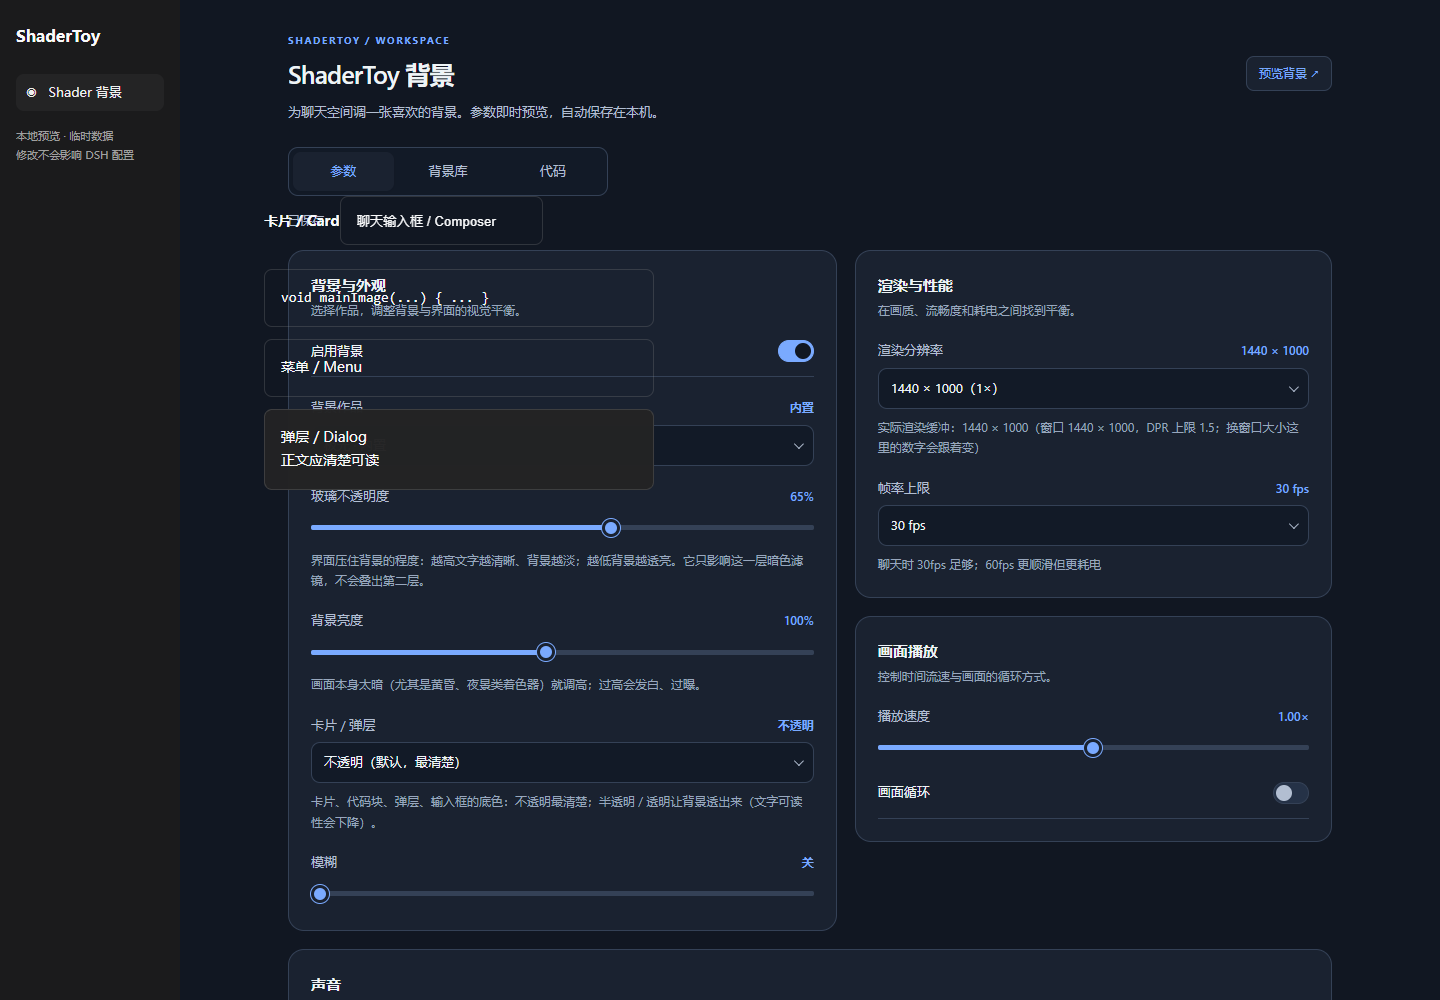
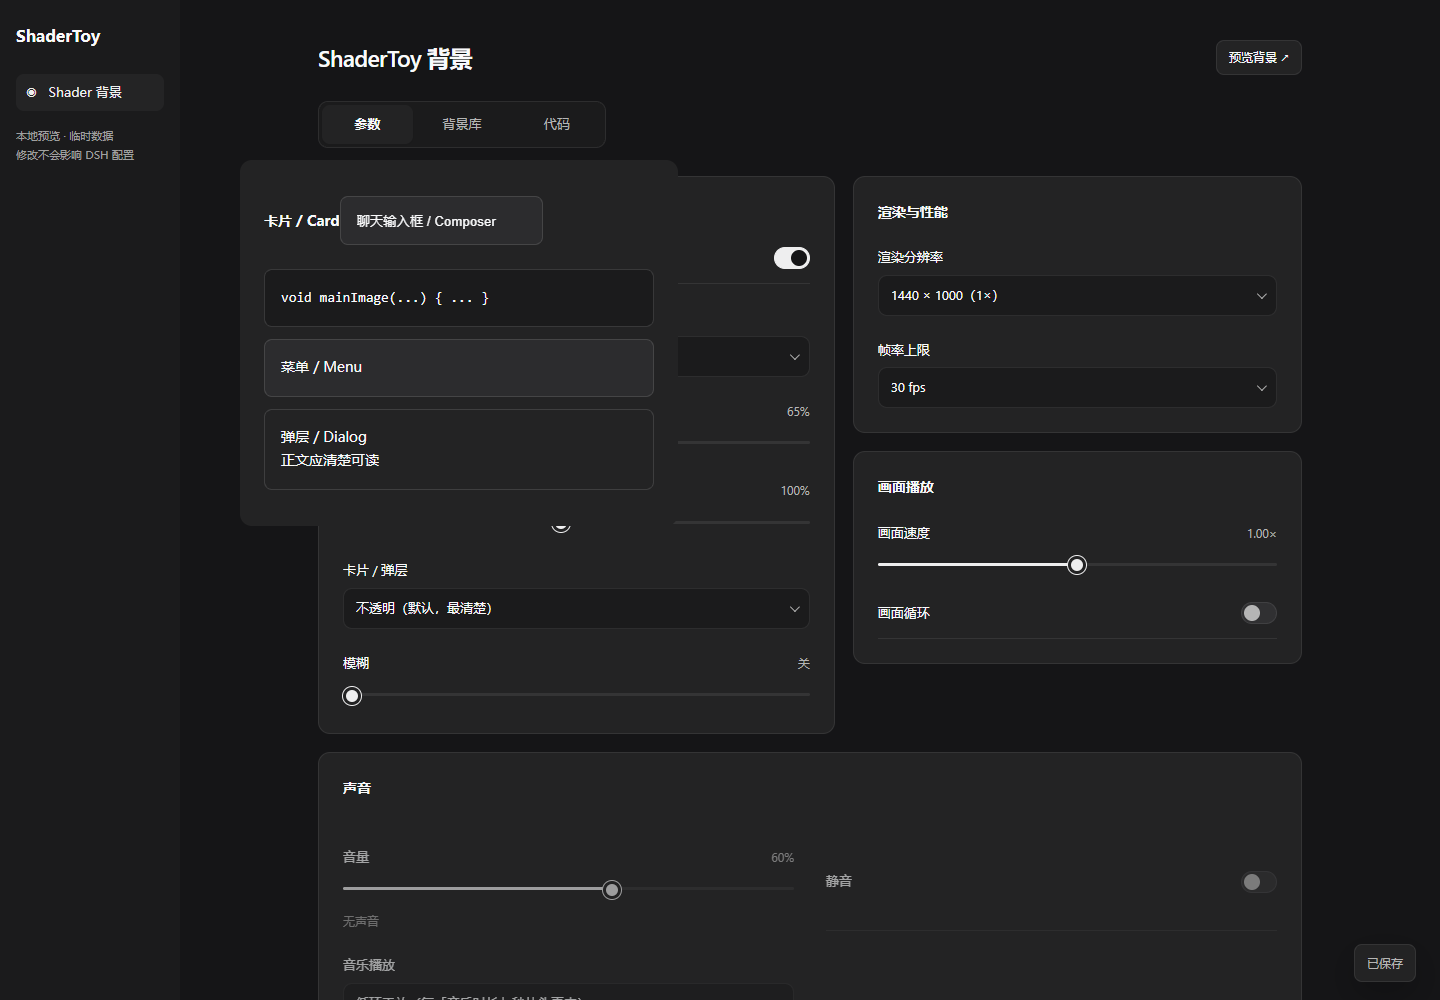
docs(audit): record native UI validation, surface policy and desktop installation

diff --git a/docs/full-audit-2026-10-27.md b/docs/full-audit-2026-10-27.md
@@ -1,0 +1,73 @@
+# 原生配色、透明表面与插件全面审查
+
+日期：2026-10-27。实验分支：`codex/experiment-native-ui`。界面分支 `codex/native-ui` 与修复分支 `codex/audit-hardening` 分别开发，合入本实验分支。原 `main` 保持 `1aec852`，未合并实验改动，未发布 npm。
+
+## 设置界面
+
+读取本机 DSH 安装包的主题实现后，采用其主要中性色：浅色 `#fff`，深色页面 `#151517`、卡片 `#232324`、字段 `#1b1b1c`。按钮、开关、滑块和焦点均以黑白灰表达状态，语义错误仍用红色。
+
+删除页头英文小标、介绍文案、分组说明、参数下方长段说明、重复选择数值。保留必要的名称、单位、代码状态和错误信息。自动保存提示改为不影响排版的状态浮层，避免控件在操作中上下移动。Image / Sound 的专注编辑、行号、字号、换行和高度记忆继续保留。
+
+## 透明度策略
+
+| 表面 | 半透明 / 透明档的策略 |
+|---|---|
+| 主界面外壳 | 背景与遮罩合成一次，避免多层遮罩把画面压黑 |
+| 普通卡片 | 基础不透明度分别为 72% / 38%；低遮罩时根据最亮/最暗背景提高安全下限 |
+| 聊天输入框 | 至少 85% 不透明 |
+| Markdown 代码块 | 至少 84% 不透明 |
+| 菜单、选择器、分组菜单头 | 97% 不透明，保留清楚的文字与边界 |
+| 设置、确认等关键对话框 | 100% 不透明；实机发现 98% 仍有背后文字重影后进一步调整 |
+| 插件自身设置页、代码工作区 | 固定可读表面；用“预览背景”单独查看背景效果 |
+
+只覆盖语义背景 token，不再覆盖静态中性色板。静态色板也会被原生文字、图标使用，全局改写它可能把前景文字一起变透明。原生遮罩与语义颜色保持各自职责。
+
+截图：[深色设置](verify/ui-refresh/settings-dark.png)、[浅色设置](verify/ui-refresh/settings-light.png)、[代码页](verify/ui-refresh/editor-dark.png)。透明度回归截图见 [surface-audit](verify/surface-audit/)；这些截图由真实插件配合最小 DSH 服务适配器和语义表面夹具生成，桌面端另做人工验收。
+
+## 本轮问题与处理
+
+| 级别 | 问题 | 处理 |
+|---|---|---|
+| P1 | 初次读取配置失败后以空库继续保存，可能覆盖用户背景库 | 读取失败禁止写入，提供重新加载；损坏文件原样保留 |
+| P1 | 两个设置窗口读取同一旧快照，后保存者覆盖先保存者 | 状态 GET/PUT 增加 ETag / If-Match，旧修订返回 409，不静默覆盖 |
+| P1 | 全局改写静态中性色，可能影响前景文字/图标 | 删除静态色板覆盖，仅修改语义表面 |
+| P2 | 背景关闭后启动/调参仍可能重新透明化原生界面 | 关闭状态统一清除样式与 token；后续调参也不重加 |
+| P2 | 深浅模式切换时播放器保留上一主题遮罩 | 主题变化同步发送当前主题的实际 tint 参数；验证 GPU uniform |
+| P2 | 透明档的菜单底色过淡、浅色对话框透出背后代码 | 菜单提高到 97%；关键对话框完全不透明 |
+| P2 | 未保存代码只在内存中，刷新会丢失 | 当前浏览会话用 sessionStorage 恢复草稿，显式放弃时清除 |
+| P2 | 保存代码期间切换作品，迟到结果可能作用于错误作品 | 保存结果检查当前作品与已加载编辑对象，避免错误应用 |
+| P2 | 自有 JSON 的 Sound 字段、Image/Sound 混合 GLSL 导入时丢音频 | 两种格式均保留声音；错误 Sound 不再静默丢弃 |
+| P2 | 只比较原始代码长度，JSON 转义后请求可能超过 Host 上限 | 按 UTF-8 代码字节和完整序列化请求双重预检，保留原输入 |
+| P2 | 数值、重复作品 ID 缺乏 Host 验证 | 按默认参数范围校验，拒绝重复 ID；损坏结构不作为有效状态加载 |
+| P2 | 图形上下文丢失后背景不能恢复 | 处理 context lost/restored；恢复后重载播放器并重新初始化当前作品 |
+| P2 | 固定假设 GPU 最大分辨率 | 同时读取设备纹理和 viewport 限制，最高仍限制为 8192 |
+| P2 | 画面速度改变只移动音频块起点，可能重复/跳过声音；速度零导致重复块 | 速度明确只控制画面，音频使用连续独立时间轴 |
+| P2 | 全量参数消息被误判为音乐模式变化，可能再次截断尾段 | 只在模式/时长实际变化时重调度 |
+| P2 | 切换带音作品时先启动声音，再应用音量/静音 | 初始化先应用参数，避免短暂使用旧音量 |
+| P2 | 本地预设符号链接可能绕过目录边界 | 解析真实路径后二次检查；目录 junction 越界有回归测试 |
+| P3 | 插件卸载发生在异步启动期间，晚到任务可能重建背景 | 增加 disposed 检查，阻止已释放插件继续启动 |
+| P3 | 声音编译失败提示不足、重试按钮没有重试代码保存 | 声音错误在设置和代码页展示；重试指向当前实际保存操作 |
+| P3 | 每帧创建未使用的通道数组 | 复用零值 uniform 数组 |
+
+上一轮修复的初始化次数耗尽、请求竞争、原子保存临时文件竞争、Common pass 识别、页签切换草稿丢失、编译失败黑屏、音频尾段提前停止均继续保留，并运行原回归测试。
+
+## 验证与实装
+
+- `npm test`：109 项包检查，以及 Host 状态、迁移、格式、并发、ETag、损坏文件、数值范围和真实路径边界验证。
+- `npm run test:renderer`：Edge / WebGL2、ES1 回退、错误行号、真实鼠标拖动、代码保存与页面滚动。
+- `npm run test:audio`：WebAudio 非静音样本、增益、画面速度零时音频仍连续、只播一次和循环重放。
+- `npm run test:panel`：真实 Client + 面板 + 播放器；重复切换、迟到响应、串行保存、失败重试、草稿、Common 与编译失败后保留画面。
+- `npm run test:ui`：中性色约束、冗余文案移除、两种主题、下拉键盘、背景预览、专注模式、字号/换行/高度记忆和 390 px 布局。
+- `npm run test:audit`：六种主题/透明度组合、背景关闭与恢复、GPU tint、刷新恢复草稿、更多导入格式、过大请求、多窗口冲突、读取失败不覆盖、模拟 GPU 上下文丢失与恢复。
+
+本机 desktop profile 已以目录链接安装 `D:/AI_workspace/dsh-shadertoy`。本次切至实验分支，正常退出并重新启动 DSH，在真实 `dsh-app://app/` 页面验证：深浅设置页、半透明/透明档、聊天输入框、文件卡片、账号菜单、设置弹层、代码专注模式和 Esc 返回。实机发现的浅色弹层重影已修复并复核。
+
+测试前备份：`C:/Users/HUAWEI/.dsh/shader-skin/backups/codex-native-ui-20261027/shader-skin.json`。测试后恢复原配置并比较 SHA-256 一致；主题恢复“跟随系统”。实验代码保持安装，个人背景库、当前作品与参数保持测试前内容。
+
+## 后续值得做的功能与验证
+
+1. Buffer A–D、多 pass、纹理/键盘/音频输入尚不支持，当前会拒绝对应导入。下一阶段应先实现资源图和依赖检查。
+2. 背景库可增加导出/恢复、缩略图、搜索与排序；当前本地配置备份有利于恢复，但缺少产品内的备份入口。
+3. 编辑器仍是轻量 textarea，未来可评估语法高亮、缩进、查找替换和编译错误定位；没有在本轮引入新的运行时依赖。
+4. 多窗口修订冲突已有验证；两个独立 Host 进程同时写同一 DSH_HOME、系统断电、不同显卡/驱动与长期功耗未做完整验证，应补跨进程协调和专项测试。
+5. 透明表面的效果仍受第三方插件与自定义主题影响。本轮检查本机原生 UI 与常用表面，不能据此承诺任意插件组合均无问题。

diff --git a/README.md b/README.md
@@ -135,7 +135,7 @@ $DSH_HOME/shader-skin/presets/        （Windows 默认 C:\Users\<你>\.dsh\shad
 - [x] **参数**：启用、作品切换、玻璃不透明度、背景亮度、卡片透明度、模糊、分辨率、帧率、速度、**画面循环**、**音乐只播一次**、音量/静音、本背景恢复默认
 - [x] **音乐只播一次**：放完设定时长就停，画面继续常驻（适合马里奥这种静态图 + 一首歌）；`loop` 则是按「音乐时长」把音乐时间轴归零重放，有限长度的曲子也能一直循环
 - [x] **画面循环**：有些作品播一次就停住，可设周期把 `iTime` 归零重播（只重置画面）
-- [x] 设置页配色改用 **DSH 品牌蓝**（亮色 `#3568dc` / 暗色 `#7aaaff`），小字号数值也清楚
+- [x] 设置页采用 **DSH 原生中性色**：浅色白底、深色黑灰底，移除长说明与重复数值，自动跟随主题
 - [x] **背景库**：内置 + 我的背景列表、切换、改名、删除；粘贴代码导入、文件导入（ShaderToy JSON / GLSL）、从 `$DSH_HOME/shader-skin/presets/` 导入
 - [x] **随包 5 个预设**：自写的「极光 / 流体色带 / 脉冲」（MIT）+ 第三方「海面（Seascape）」「马里奥」（CC BY-NC-SA 3.0，署名/非商业/相同方式共享，背景库和下拉里带 `CC BY-NC-SA` 标）
 - [x] **代码页**：查看当前运行作品的 Image / Sound 源码，直接改 → **保存并运行**（内置作品会自动另存为「我的副本」，原件不动；编辑器里 Ctrl/⌘+S 同样保存）
